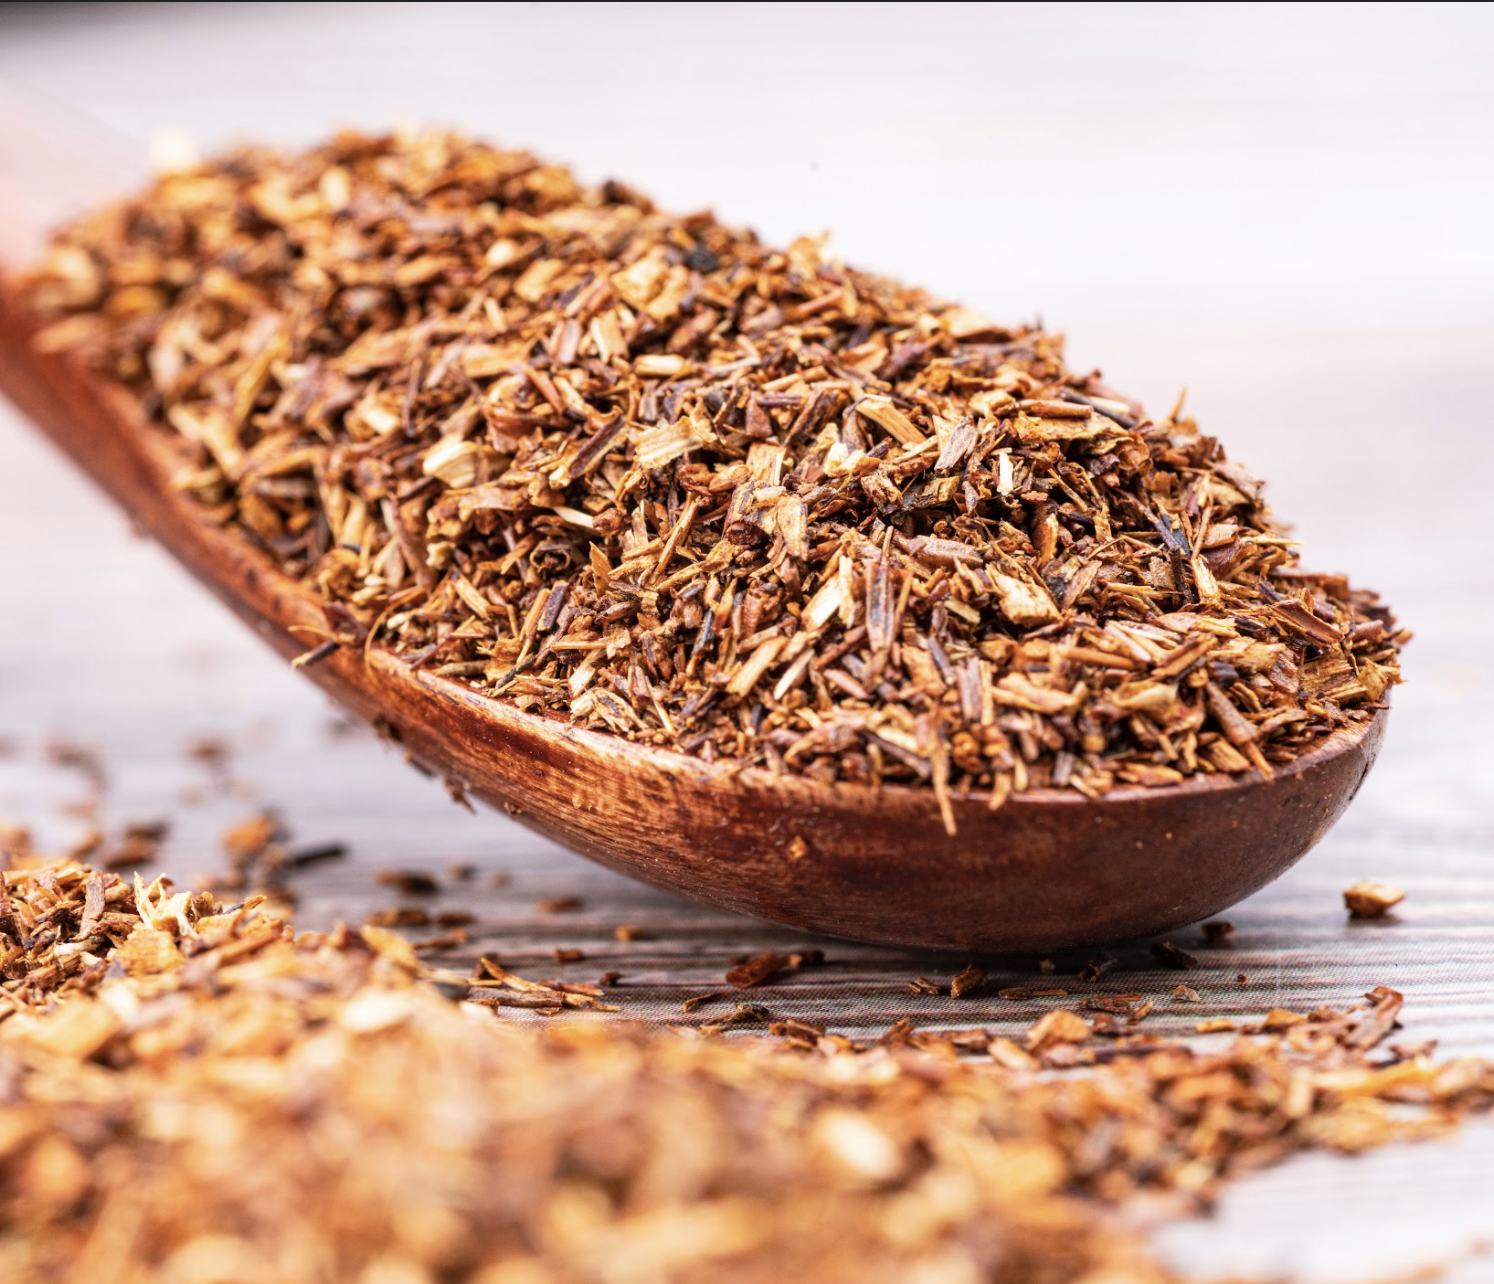
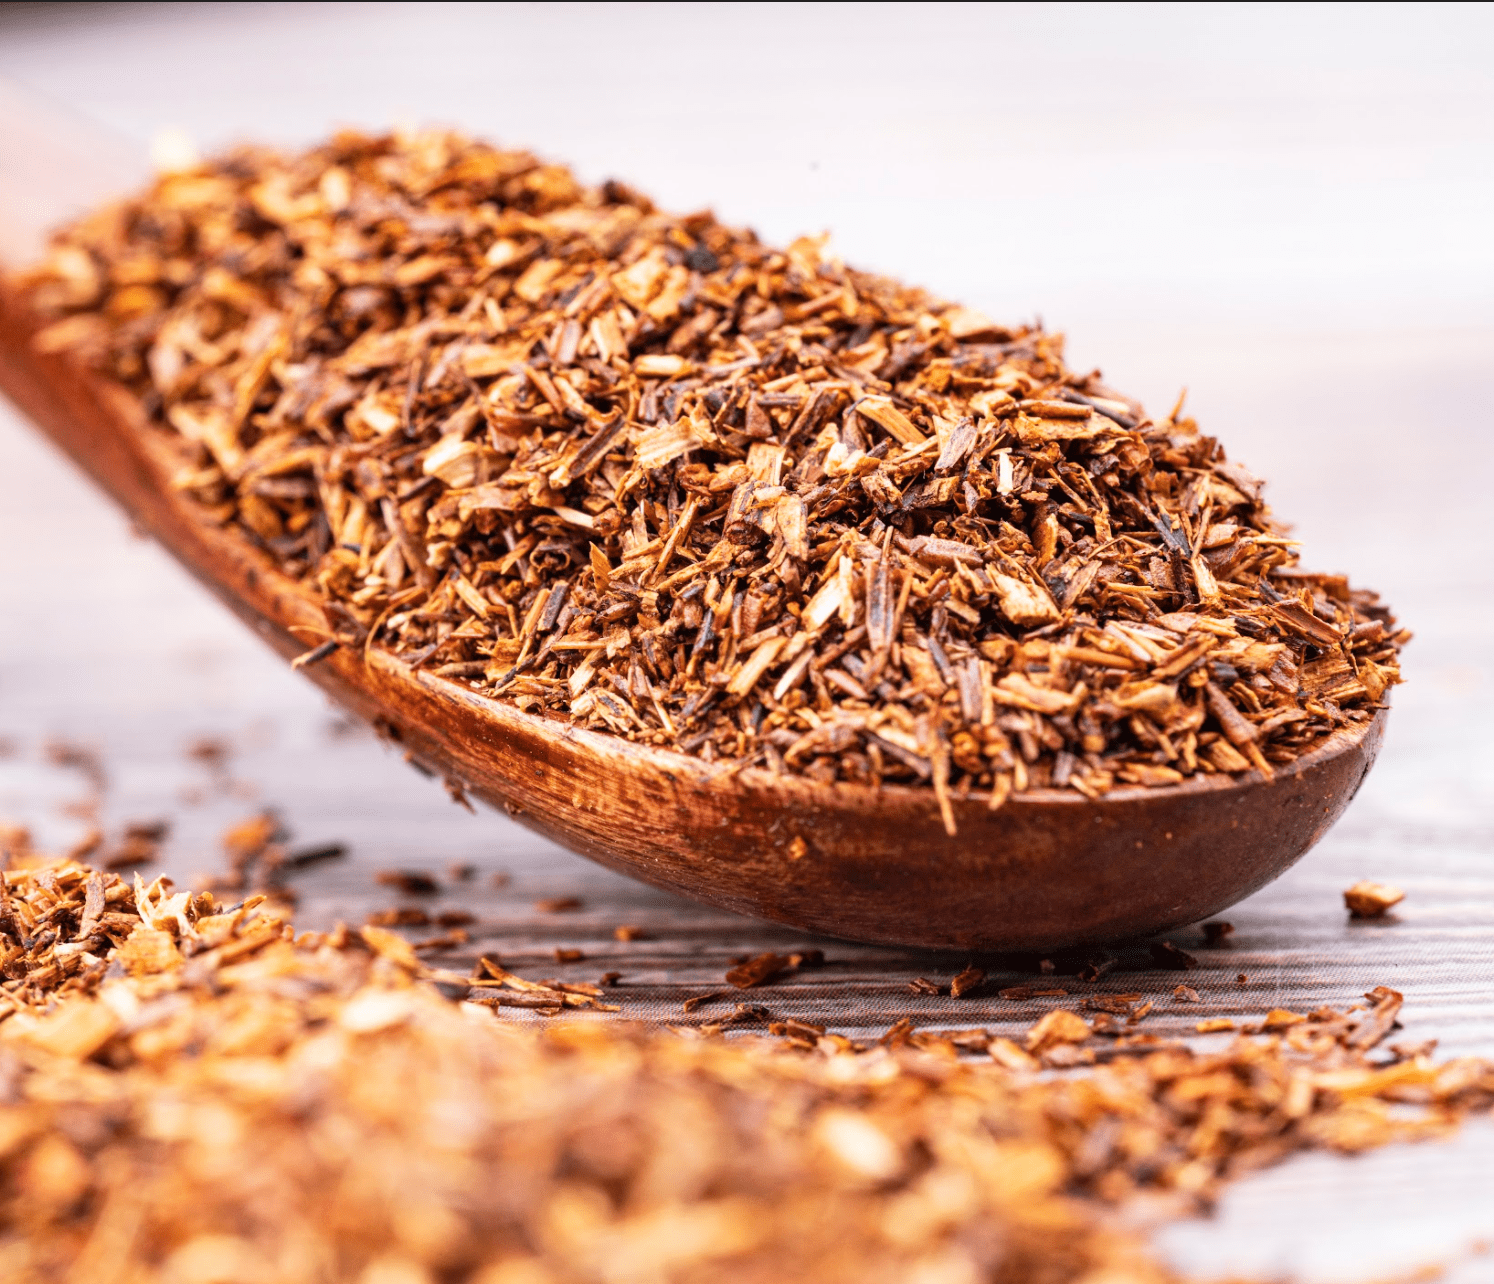
image compression

Changed region(s): [[0.8929, 0.8411, 0.9237, 0.8723], [0.3079, 0.1246, 0.3387, 0.1558], [0.0616, 0.2181, 0.0924, 0.2492]]

diff --git a/templates/wheat.html b/templates/wheat.html
@@ -128,7 +128,7 @@
        </nav>
     </header>
     <!-- Header End --><!-- Banner Start -->
-      <div class="banner dark-overlay" style="background-image: url('static/picture/wheat_2.jpeg')">
+      <div class="banner dark-overlay" style="background-image: url('static/picture/wheat_2.jpg')">
          <!-- Prev Arrow -->
          <div class="container">
             <div class="section section-padding ct-categories ct-categories-2">
@@ -147,7 +147,7 @@
           <div class="row">
                      <div class="col-lg-3 col-md-4 col-sm-6">
                         <a href="#" class="ct-category">
-                           <div class="ct-category-img"><img class = "img_crop" src="static/picture/wh_coconut.png" alt="category"></div>
+                           <div class="ct-category-img"><img class = "img_crop" src="static/picture/wh_coconut.jpg" alt="category"></div>
                            <div class="ct-category-info">
                               <h5>Coconut</h5>
                            </div>
@@ -155,7 +155,7 @@
                      </div>
                      <div class="col-lg-3 col-md-4 col-sm-6">
                         <a href="#" class="ct-category">
-                           <div class="ct-category-img"><img class = "img_crop" src="static/picture/wh_buckwheat.png" alt="category"></div>
+                           <div class="ct-category-img"><img class = "img_crop" src="static/picture/wh_buckwheat.jpg" alt="category"></div>
                            <div class="ct-category-info">
                               <h5>Buckwheat</h5>
                            </div>
@@ -163,7 +163,7 @@
                      </div>
                      <div class="col-lg-3 col-md-4 col-sm-6">
                         <a href="#" class="ct-category">
-                           <div class="ct-category-img"><img class = "img_crop" src="static/picture/wh_corn.png" alt="category"></div>
+                           <div class="ct-category-img"><img class = "img_crop" src="static/picture/wh_corn.jpg" alt="category"></div>
                            <div class="ct-category-info">
                               <h5>Corn</h5>
                            </div>
@@ -171,7 +171,7 @@
                      </div>
                      <div class="col-lg-3 col-md-4 col-sm-6">
                         <a href="#" class="ct-category">
-                           <div class="ct-category-img"><img class = "img_crop" src="static/picture/Millet_1.jpeg" alt="category"></div>
+                           <div class="ct-category-img"><img class = "img_crop" src="static/picture/Millet_1.jpg" alt="category"></div>
                            <div class="ct-category-info">
                               <h5>Millet</h5>
                            </div>
@@ -179,7 +179,7 @@
                      </div>
                      <div class="col-lg-3 col-md-4 col-sm-6">
                         <a href="#" class="ct-category">
-                           <div class="ct-category-img"><img class = "img_crop" src="static/picture/wh_oat.png" alt="category"></div>
+                           <div class="ct-category-img"><img class = "img_crop" src="static/picture/wh_oat.jpg" alt="category"></div>
                            <div class="ct-category-info">
                               <h5>Oat</h5>
                            </div>
@@ -187,7 +187,7 @@
                      </div>
                      <div class="col-lg-3 col-md-4 col-sm-6">
                         <a href="#" class="ct-category">
-                           <div class="ct-category-img"><img class = "img_crop" src="static/picture/wh_pea.png" alt="category"></div>
+                           <div class="ct-category-img"><img class = "img_crop" src="static/picture/wh_pea.jpg" alt="category"></div>
                            <div class="ct-category-info">
                               <h5>Pea</h5>
                            </div>
@@ -195,7 +195,7 @@
                      </div>
                      <div class="col-lg-3 col-md-4 col-sm-6">
                         <a href="#" class="ct-category">
-                           <div class="ct-category-img"><img class = "img_crop" src="static/picture/wh_quinoa.png" alt="category"></div>
+                           <div class="ct-category-img"><img class = "img_crop" src="static/picture/wh_quinoa.jpg" alt="category"></div>
                            <div class="ct-category-info">
                               <h5>Quinoa</h5>
                            </div>
@@ -203,7 +203,7 @@
                      </div>
                      <div class="col-lg-3 col-md-4 col-sm-6">
                         <a href="#" class="ct-category">
-                           <div class="ct-category-img"><img class = "img_crop" src="static/picture/wh_rye.png" alt="category"></div>
+                           <div class="ct-category-img"><img class = "img_crop" src="static/picture/wh_rye.jpg" alt="category"></div>
                            <div class="ct-category-info">
                               <h5>Rye</h5>
                            </div>

diff --git a/templates/egg.html b/templates/egg.html
@@ -128,7 +128,7 @@
        </nav>
     </header>
     <!-- Header End --><!-- Banner Start -->
-      <div class="banner dark-overlay" style="background-image: url('static/picture/eggs_2.jpeg')">
+      <div class="banner dark-overlay" style="background-image: url('static/picture/eggs_2.jpg')">
          <!-- Prev Arrow -->
          <div class="container">
             <div class="section section-padding ct-categories ct-categories-2">
@@ -149,7 +149,7 @@
           <div class="row">
                      <div class="col-lg-3 col-md-4 col-sm-6">
                         <a href="#" class="ct-category">
-                           <div class="ct-category-img"><img class = "img_crop" src="static/picture/Aquafaba.png" alt="category"></div>
+                           <div class="ct-category-img"><img class = "img_crop" src="static/picture/Aquafaba.jpg" alt="category"></div>
                            <div class="ct-category-info">
                               <h5>Aquafaba</h5>
                            </div>
@@ -157,7 +157,7 @@
                      </div>
                      <div class="col-lg-3 col-md-4 col-sm-6">
                         <a href="#" class="ct-category">
-                           <div class="ct-category-img"><img class = "img_crop" src="static/picture/Soy_lectin.jpeg" alt="category"></div>
+                           <div class="ct-category-img"><img class = "img_crop" src="static/picture/Soy_lectin.jpg" alt="category"></div>
                            <div class="ct-category-info">
                               <h5>Soy Lectin</h5>
                            </div>
@@ -165,7 +165,7 @@
                      </div>
                      <div class="col-lg-3 col-md-4 col-sm-6">
                         <a href="#" class="ct-category">
-                           <div class="ct-category-img"><img class = "img_crop" src="static/picture/Silken_tofu.jpeg" alt="category"></div>
+                           <div class="ct-category-img"><img class = "img_crop" src="static/picture/Silken_tofu.jpg" alt="category"></div>
                            <div class="ct-category-info">
                               <h5>Silken Tofu</h5>
                            </div>
@@ -173,7 +173,7 @@
                      </div>
                      <div class="col-lg-3 col-md-4 col-sm-6">
                         <a href="/" class="ct-category">
-                           <div class="ct-category-img"><img class = "img_crop" src="static/picture/banana.jpeg" alt="category"></div>
+                           <div class="ct-category-img"><img class = "img_crop" src="static/picture/banana.jpg" alt="category"></div>
                            <div class="ct-category-info">
                               <h5>Mashed Banana</h5>
                            </div>
@@ -181,7 +181,7 @@
                      </div>
                      <div class="col-lg-3 col-md-4 col-sm-6">
                         <a href="#" class="ct-category">
-                           <div class="ct-category-img"><img class = "img_crop" src="static/picture/chia.jpeg" alt="category"></div>
+                           <div class="ct-category-img"><img class = "img_crop" src="static/picture/chia.jpg" alt="category"></div>
                            <div class="ct-category-info">
                               <h5>Chia Seeds</h5>
                            </div>
@@ -189,7 +189,7 @@
                      </div>
                      <div class="col-lg-3 col-md-4 col-sm-6">
                         <a href="#" class="ct-category">
-                           <div class="ct-category-img"><img class = "img_crop" src="static/picture/Arrowroot.png" alt="category"></div>
+                           <div class="ct-category-img"><img class = "img_crop" src="static/picture/Arrowroot.jpg" alt="category"></div>
                            <div class="ct-category-info">
                               <h5>Arrowroot Powder</h5>
                            </div>
@@ -197,7 +197,7 @@
                      </div>
                      <div class="col-lg-3 col-md-4 col-sm-6">
                         <a href="#" class="ct-category">
-                           <div class="ct-category-img"><img class = "img_crop" src="static/picture/Agar.png" alt="category"></div>
+                           <div class="ct-category-img"><img class = "img_crop" src="static/picture/Agar.jpg" alt="category"></div>
                            <div class="ct-category-info">
                               <h5>Agar-Agar</h5>
                            </div>

diff --git a/templates/peanut.html b/templates/peanut.html
@@ -149,7 +149,7 @@
 
                      <div class="col-lg-3 col-md-4 col-sm-6">
                         <a href="#" class="ct-category">
-                           <div class="ct-category-img"><img class = "img_crop" src="static/picture/pumpkinseed_tn.png" alt="category"></div>
+                           <div class="ct-category-img"><img class = "img_crop" src="static/picture/pumpkinseed_tn.jpg" alt="category"></div>
                            <div class="ct-category-info">
                               <h5>Pumpkin Seed</h5>
                            </div>
@@ -157,7 +157,7 @@
                      </div>
                      <div class="col-lg-3 col-md-4 col-sm-6">
                         <a href="#" class="ct-category">
-                           <div class="ct-category-img"><img class = "img_crop" src="static/picture/oat_tn.png" alt="category"></div>
+                           <div class="ct-category-img"><img class = "img_crop" src="static/picture/oat_tn.jpg" alt="category"></div>
                            <div class="ct-category-info">
                               <h5>Oats</h5>
                            </div>
@@ -165,7 +165,7 @@
                      </div>
                      <div class="col-lg-3 col-md-4 col-sm-6">
                         <a href="#" class="ct-category">
-                           <div class="ct-category-img"><img class = "img_crop" src="static/picture/chickpea_tn.png" alt="category"></div>
+                           <div class="ct-category-img"><img class = "img_crop" src="static/picture/chickpea_tn.jpg" alt="category"></div>
                            <div class="ct-category-info">
                               <h5>Chickpea</h5>
                            </div>
@@ -173,7 +173,7 @@
                      </div>
                      <div class="col-lg-3 col-md-4 col-sm-6">
                         <a href="#" class="ct-category">
-                           <div class="ct-category-img"><img class = "img_crop" src="static/picture/puffrice_tn.png" alt="category"></div>
+                           <div class="ct-category-img"><img class = "img_crop" src="static/picture/puffrice_tn.jpg" alt="category"></div>
                            <div class="ct-category-info">
                               <h5>Puff rice</h5>
                            </div>
@@ -181,7 +181,7 @@
                      </div>
                      <div class="col-lg-3 col-md-4 col-sm-6">
                         <a href="#" class="ct-category">
-                           <div class="ct-category-img"><img class = "img_crop" src="static/picture/sunflowerseed_tn.png" alt="category"></div>
+                           <div class="ct-category-img"><img class = "img_crop" src="static/picture/sunflowerseed_tn.jpg" alt="category"></div>
                            <div class="ct-category-info">
                               <h5>Sunflower Seed</h5>
                            </div>

diff --git a/templates/treenut.html b/templates/treenut.html
@@ -150,7 +150,7 @@
 
                      <div class="col-lg-3 col-md-4 col-sm-6">
                         <a href="#" class="ct-category">
-                           <div class="ct-category-img"><img class = "img_crop" src="static/picture/pumpkinseed_tn.png" alt="category"></div>
+                           <div class="ct-category-img"><img class = "img_crop" src="static/picture/pumpkinseed_tn.jpg" alt="category"></div>
                            <div class="ct-category-info">
                               <h5>Pumpkin Seed</h5>
                            </div>
@@ -158,7 +158,7 @@
                      </div>
                      <div class="col-lg-3 col-md-4 col-sm-6">
                         <a href="#" class="ct-category">
-                           <div class="ct-category-img"><img class = "img_crop" src="static/picture/oat_tn.png" alt="category"></div>
+                           <div class="ct-category-img"><img class = "img_crop" src="static/picture/oat_tn.jpg" alt="category"></div>
                            <div class="ct-category-info">
                               <h5>Oats</h5>
                            </div>
@@ -166,7 +166,7 @@
                      </div>
                      <div class="col-lg-3 col-md-4 col-sm-6">
                         <a href="#" class="ct-category">
-                           <div class="ct-category-img"><img class = "img_crop" src="static/picture/chickpea_tn.png" alt="category"></div>
+                           <div class="ct-category-img"><img class = "img_crop" src="static/picture/chickpea_tn.jpg" alt="category"></div>
                            <div class="ct-category-info">
                               <h5>Chickpea</h5>
                            </div>
@@ -174,7 +174,7 @@
                      </div>
                      <div class="col-lg-3 col-md-4 col-sm-6">
                         <a href="#" class="ct-category">
-                           <div class="ct-category-img"><img class = "img_crop" src="static/picture/puffrice_tn.png" alt="category"></div>
+                           <div class="ct-category-img"><img class = "img_crop" src="static/picture/puffrice_tn.jpg" alt="category"></div>
                            <div class="ct-category-info">
                               <h5>Puff rice</h5>
                            </div>
@@ -182,7 +182,7 @@
                      </div>
                      <div class="col-lg-3 col-md-4 col-sm-6">
                         <a href="#" class="ct-category">
-                           <div class="ct-category-img"><img class = "img_crop" src="static/picture/sunflowerseed_tn.png" alt="category"></div>
+                           <div class="ct-category-img"><img class = "img_crop" src="static/picture/sunflowerseed_tn.jpg" alt="category"></div>
                            <div class="ct-category-info">
                               <h5>Sunflower Seed</h5>
                            </div>

diff --git a/templates/soy.html b/templates/soy.html
@@ -149,7 +149,7 @@
           <div class="row">
                      <div class="col-lg-3 col-md-4 col-sm-6">
                         <a href="#" class="ct-category">
-                           <div class="ct-category-img"><img class = "img_crop" src="static/picture/wh_oat.png" alt="category"></div>
+                           <div class="ct-category-img"><img class = "img_crop" src="static/picture/wh_oat.jpg" alt="category"></div>
                            <div class="ct-category-info">
                               <h5>Oat Milk</h5>
                            </div>
@@ -157,7 +157,7 @@
                      </div>
                      <div class="col-lg-3 col-md-4 col-sm-6">
                         <a href="#" class="ct-category">
-                           <div class="ct-category-img"><img class = "img_crop" src="static/picture/wh_rice.png" alt="category"></div>
+                           <div class="ct-category-img"><img class = "img_crop" src="static/picture/wh_rice.jpg" alt="category"></div>
                            <div class="ct-category-info">
                               <h5>Rice Milk</h5>
                            </div>

diff --git a/templates/dairy.html b/templates/dairy.html
@@ -180,7 +180,7 @@
                      </div>
                      <div class="col-lg-3 col-md-4 col-sm-6">
                         <a href="#" class="ct-category">
-                           <div class="ct-category-img"><img class = "img_crop" src="static/picture/soyss.png" alt="category"></div>
+                           <div class="ct-category-img"><img class = "img_crop" src="static/picture/soyss.jpg" alt="category"></div>
                            <div class="ct-category-info">
                               <h5>Soy Milk</h5>
                            </div>
